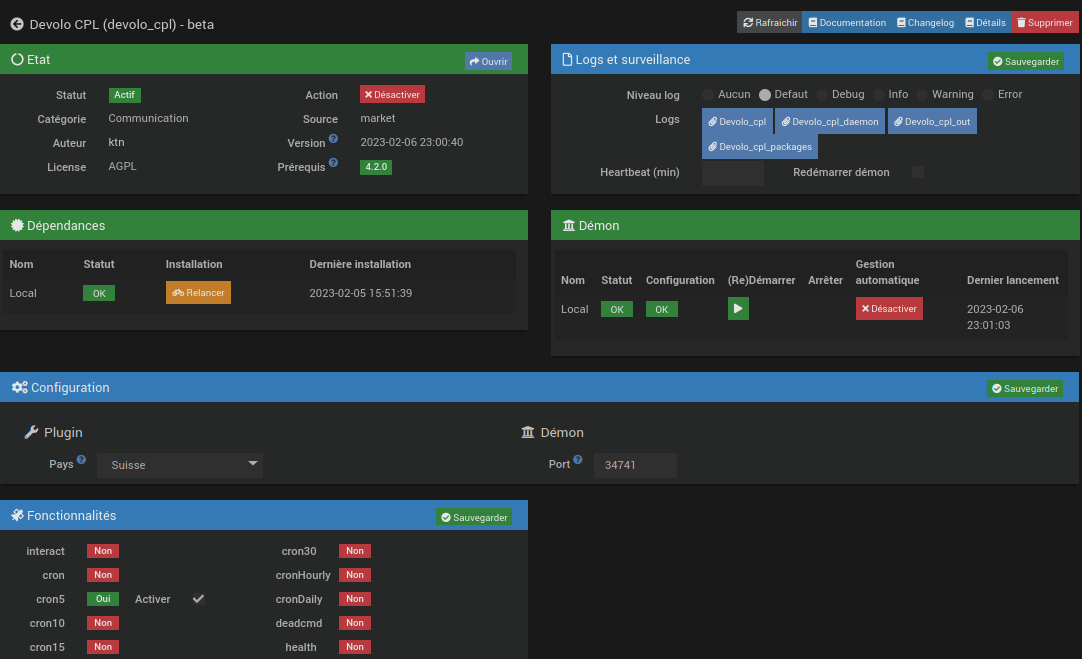
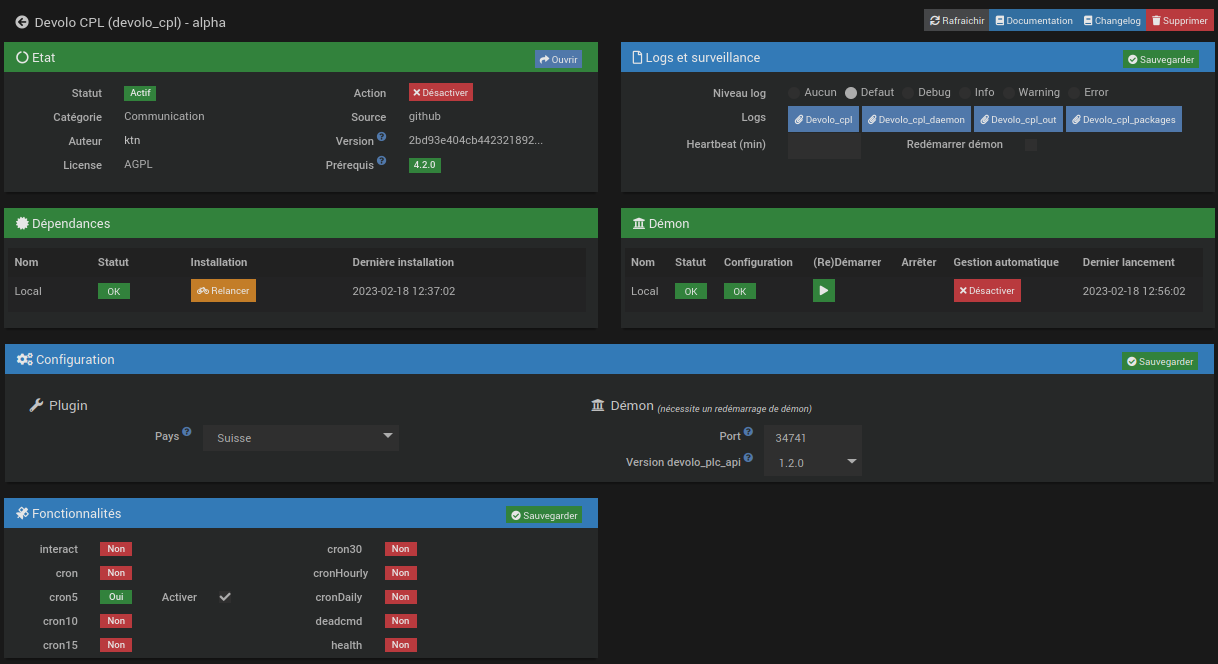
devolo_cpl: nouvelle version avec devolo_plc_api 1.2.0

diff --git a/fr_FR/devolo_cpl/changelog.md b/fr_FR/devolo_cpl/changelog.md
@@ -5,26 +5,38 @@ title : devolo_cpl
 
 # Release notes
 
-### 14/2/2023 beta bis
+### 2023/02/18 beta
+##### dépendances:
++ Ajout du module python *importlib-metadata*
+
+   L'installation des dépendances doit être relancée après mise à jour du plugin.
+
+##### module devolo_plc_api:
++ Passage à la version 1.2.0
++ La version 1.2.0 est une version modifiée pour être compatible python 3.7
++ Une option dans la page de configuration du plugin permet de revenir à la version 1.1.0 en cas de nécessité
++ Merci d'ouvrir un sujet sur le forum Jeedom si vous devez repasser à la version 1.1.0
+
+### 2023/2/14 beta bis
 + Indication des versions des modules dépendants.
 
-### 14/2/2023 beta
+### 2023/02/14 beta
 + Localisation des appareils.
 + Quelques corrections de bugs.
 
-### 12/2/2023 beta
+### 2023/02/12 beta
 + Distinction des appareils *manageables* et *non manageables*.
 + Ajout des modèles DL550 et DL1200 sans Wifi non manageables.
 + Ajout de l'adresse mac dans les configurationis des équipements.
 + Quelques corrections de bugs.
 
-### 8/2/23 beta
+### 2023/02/08 beta
 + Ajout de logging pour analyse erreurs lors de la détection des DL550.
 
-### 7/2/23 beta
+### 2023/02/07 beta
 + Correction d'un bug dans la sélection du pays.
 
-### 7/2/23 beta
+### 2023/02/07 beta
 Première version pour
 + Valider la détection automatique des appareils.
 + Valider les images.

diff --git a/fr_FR/devolo_cpl/index.md b/fr_FR/devolo_cpl/index.md
@@ -83,6 +83,11 @@ installé, il faut l'activer puis lancer l'installation des dépendances
       Le port 34741 est configuré par défaut. Un autre port peut être défini en
       cas de conflit avec un autre plugin ou logiciel qui utilise le même port.
 
+    + ***Version devolo_plc_api***
+    : Version du module python à utiliser pour la communication avec les appareils.   
+      Sauf en cas de contre-indication, veuillez utiliser la dernière version.  
+      Merci d'ouvrir un sujet sur le forum Jeedom si un passage sur une ancienne version est nécessaire.
+
 ## Lancement du démon
 {: .num}
 Après avoir installé les dépendances et effectué la configuration du plugin,
